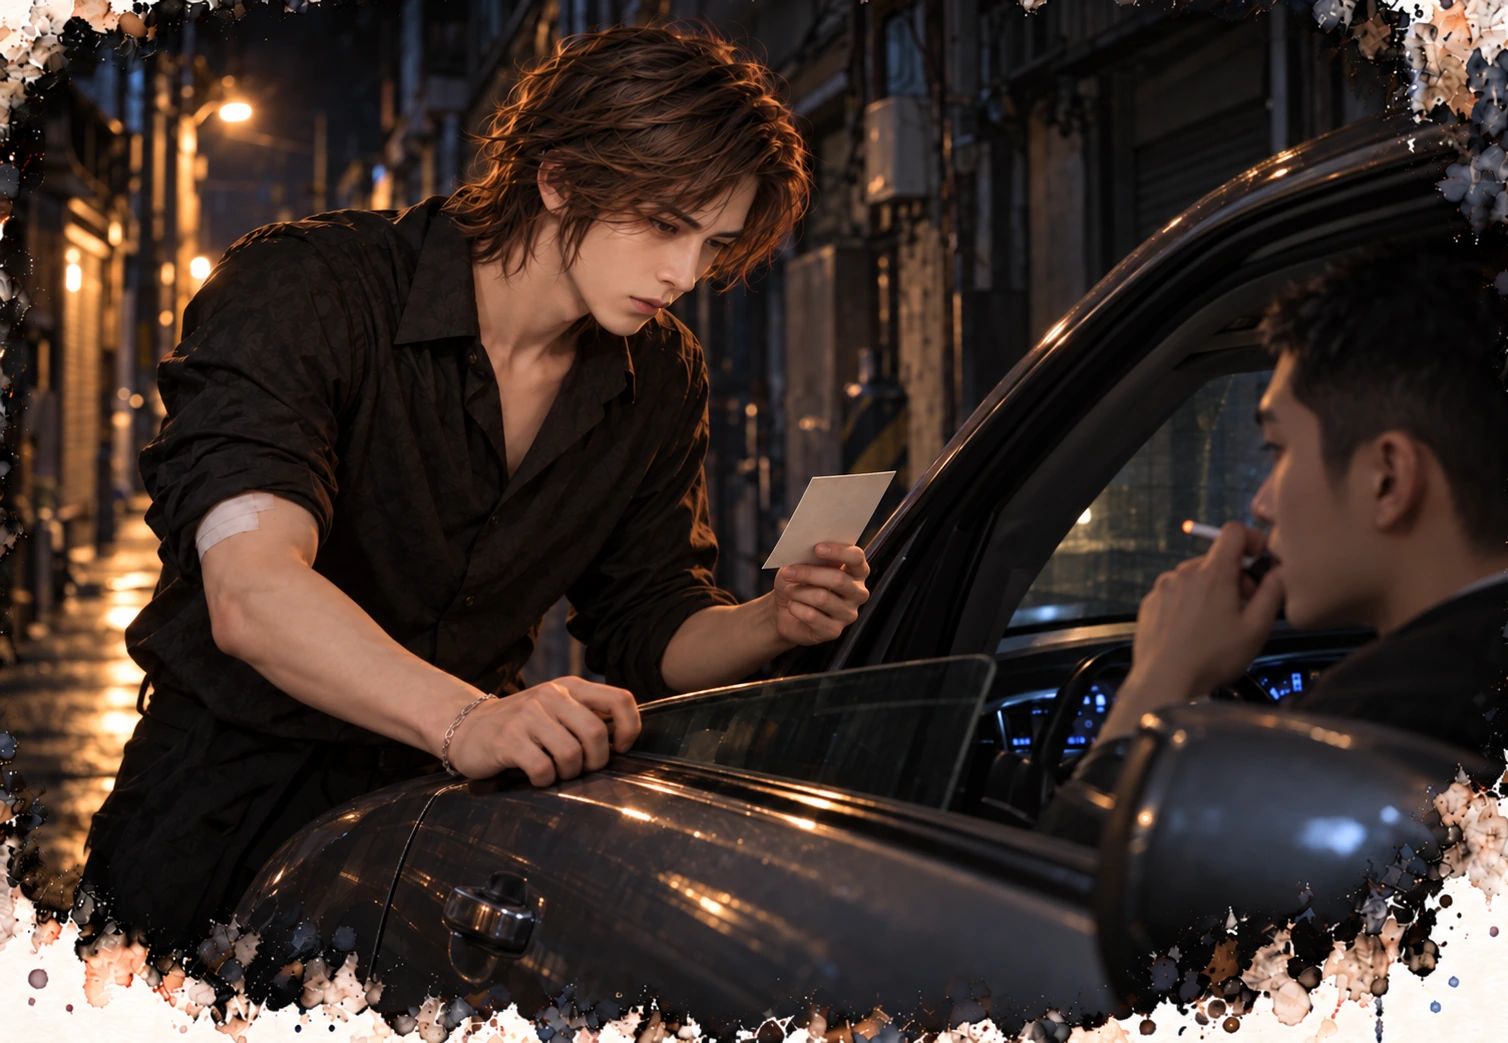
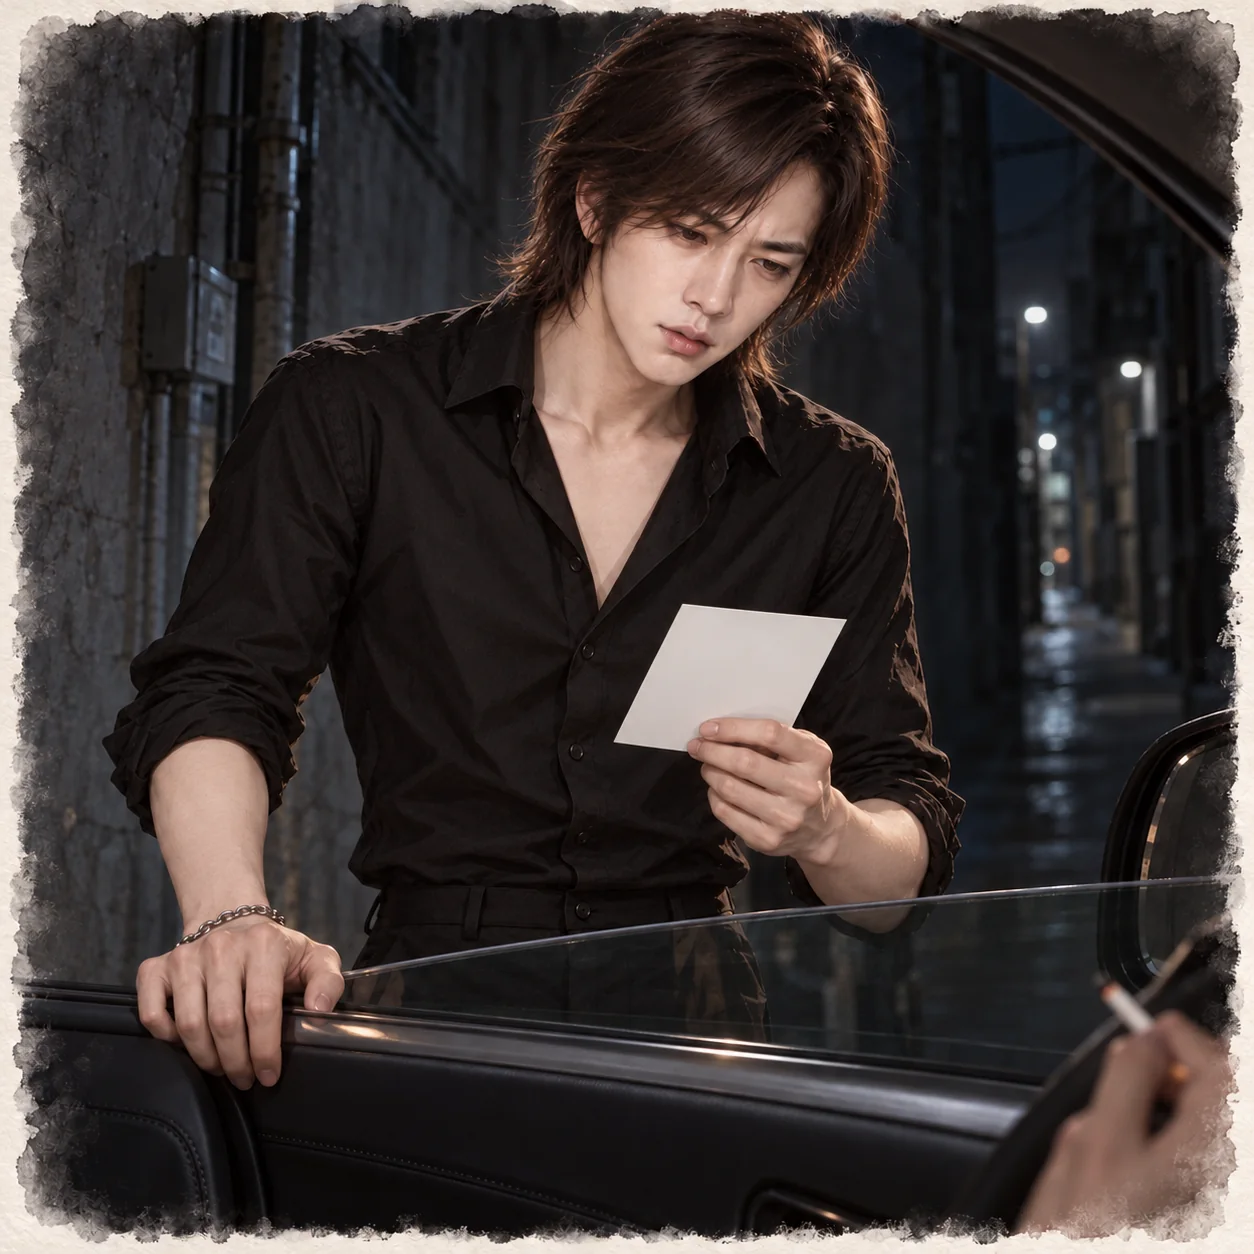
沒有招牌的酒吧 第一部第七章：替換江澈插圖
Claude-Session: https://claude.ai/code/session_01HUwf2ENyDuzceKaKYawxmj

diff --git a/novels/no-signboard-bar/chapter-07.html b/novels/no-signboard-bar/chapter-07.html
@@ -217,7 +217,7 @@
 <p>這一條，沒有寫進筆記裡。這一條，是我自己的。</p>
 </section>
 <section class="pov pov-jiang" data-name="江澈">
-<div class="pov-opening"><h2 class="pov-title" id="pov-4"><span>敘事視角</span>江澈</h2><a class="pov-art" href="../../assets/novels/no-signboard-bar/chapter-07-jiang-che.webp" target="_blank" rel="noopener" aria-label="開啟江澈插圖大圖"><img src="../../assets/novels/no-signboard-bar/chapter-07-jiang-che.webp" alt="江澈站在灰色轎車旁，左手看照片，戴手鍊的右手緊抓車門。" width="1508" height="1043" loading="lazy" decoding="async"><span class="pov-cap">我一直以為，那是這間店裡唯一安全的東西。</span></a><div class="pov-intro"><p>我沒跟陸曜說。</p>
+<div class="pov-opening"><h2 class="pov-title" id="pov-4"><span>敘事視角</span>江澈</h2><a class="pov-art" href="../../assets/novels/no-signboard-bar/chapter-07-jiang-che.webp?v=20261013" target="_blank" rel="noopener" aria-label="開啟江澈插圖大圖"><img src="../../assets/novels/no-signboard-bar/chapter-07-jiang-che.webp?v=20261013" alt="巷口轉角路燈照不到的地方，江澈一手抓著灰色轎車的車門，低頭看著從車窗遞出來的照片，車裡的人指間夾著菸。" width="1254" height="1254" loading="lazy" decoding="async"><span class="pov-cap">我一直以為，那是這間店裡唯一安全的東西。</span></a><div class="pov-intro"><p>我沒跟陸曜說。</p>
 <p>照片還壓在收銀機最底下。我想了三個晚上，結論只有一個：他知道了就會走，他一走，那台車就會跟著走，巷子就安靜了，這裡的人也就安全了。</p>
 <p>可是他一個人，撐不了多久。</p></div></div>
 <p>那就我自己去。</p>
